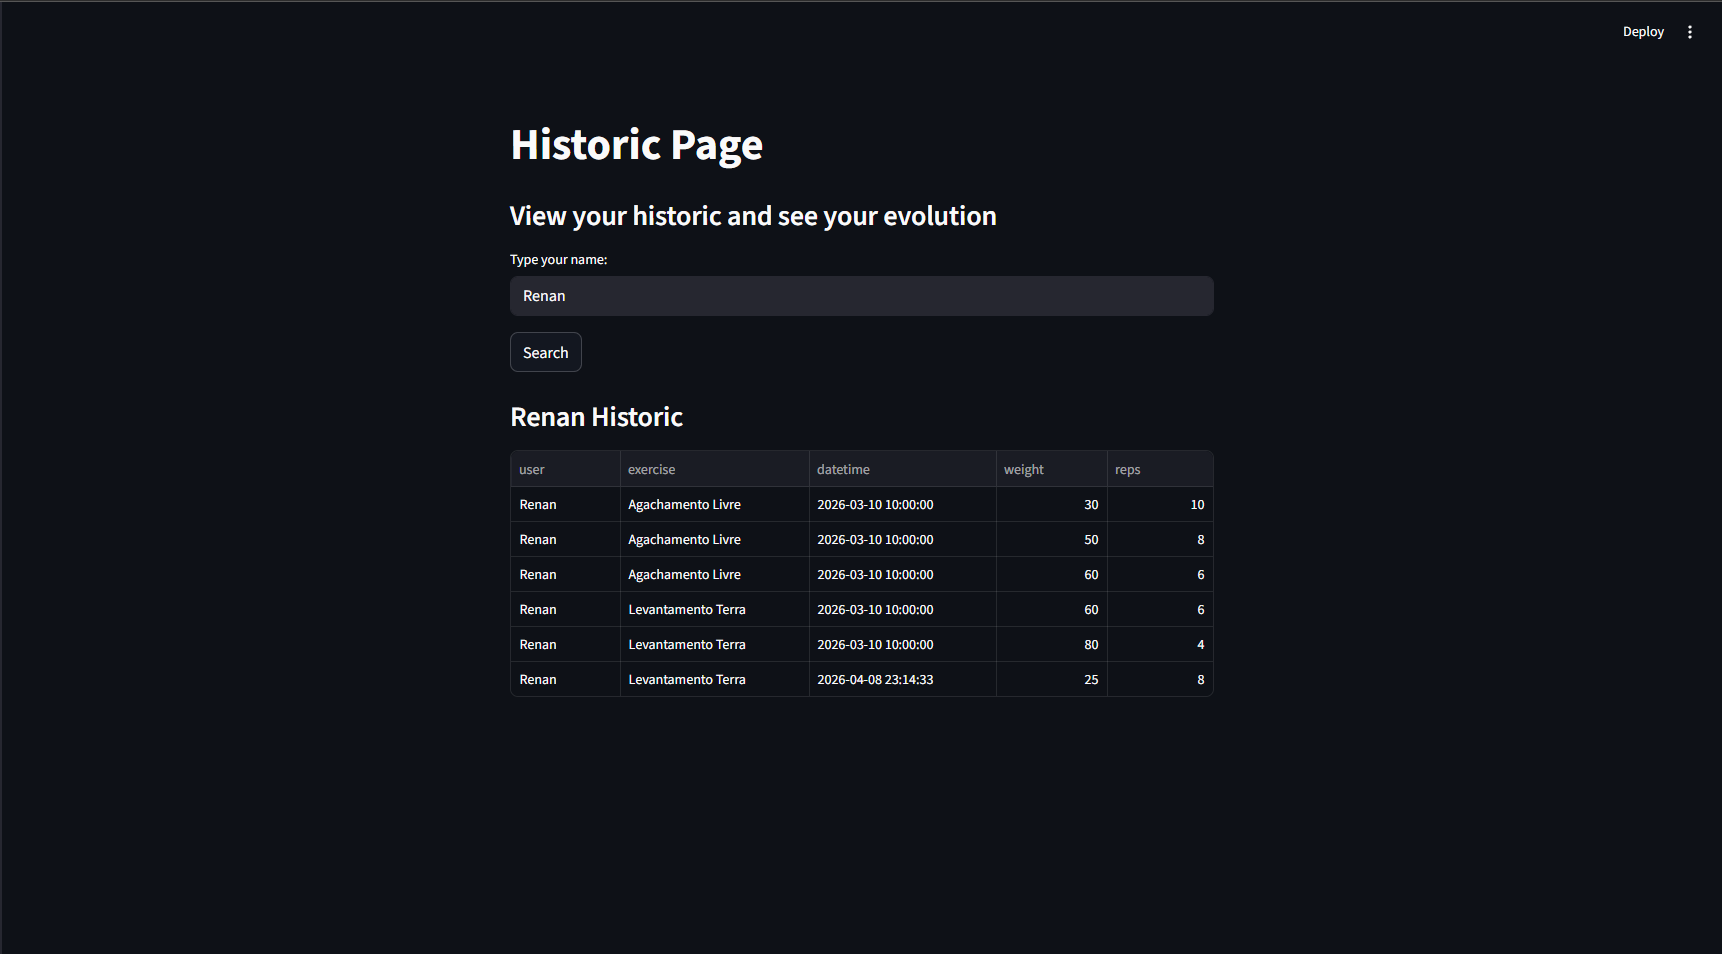
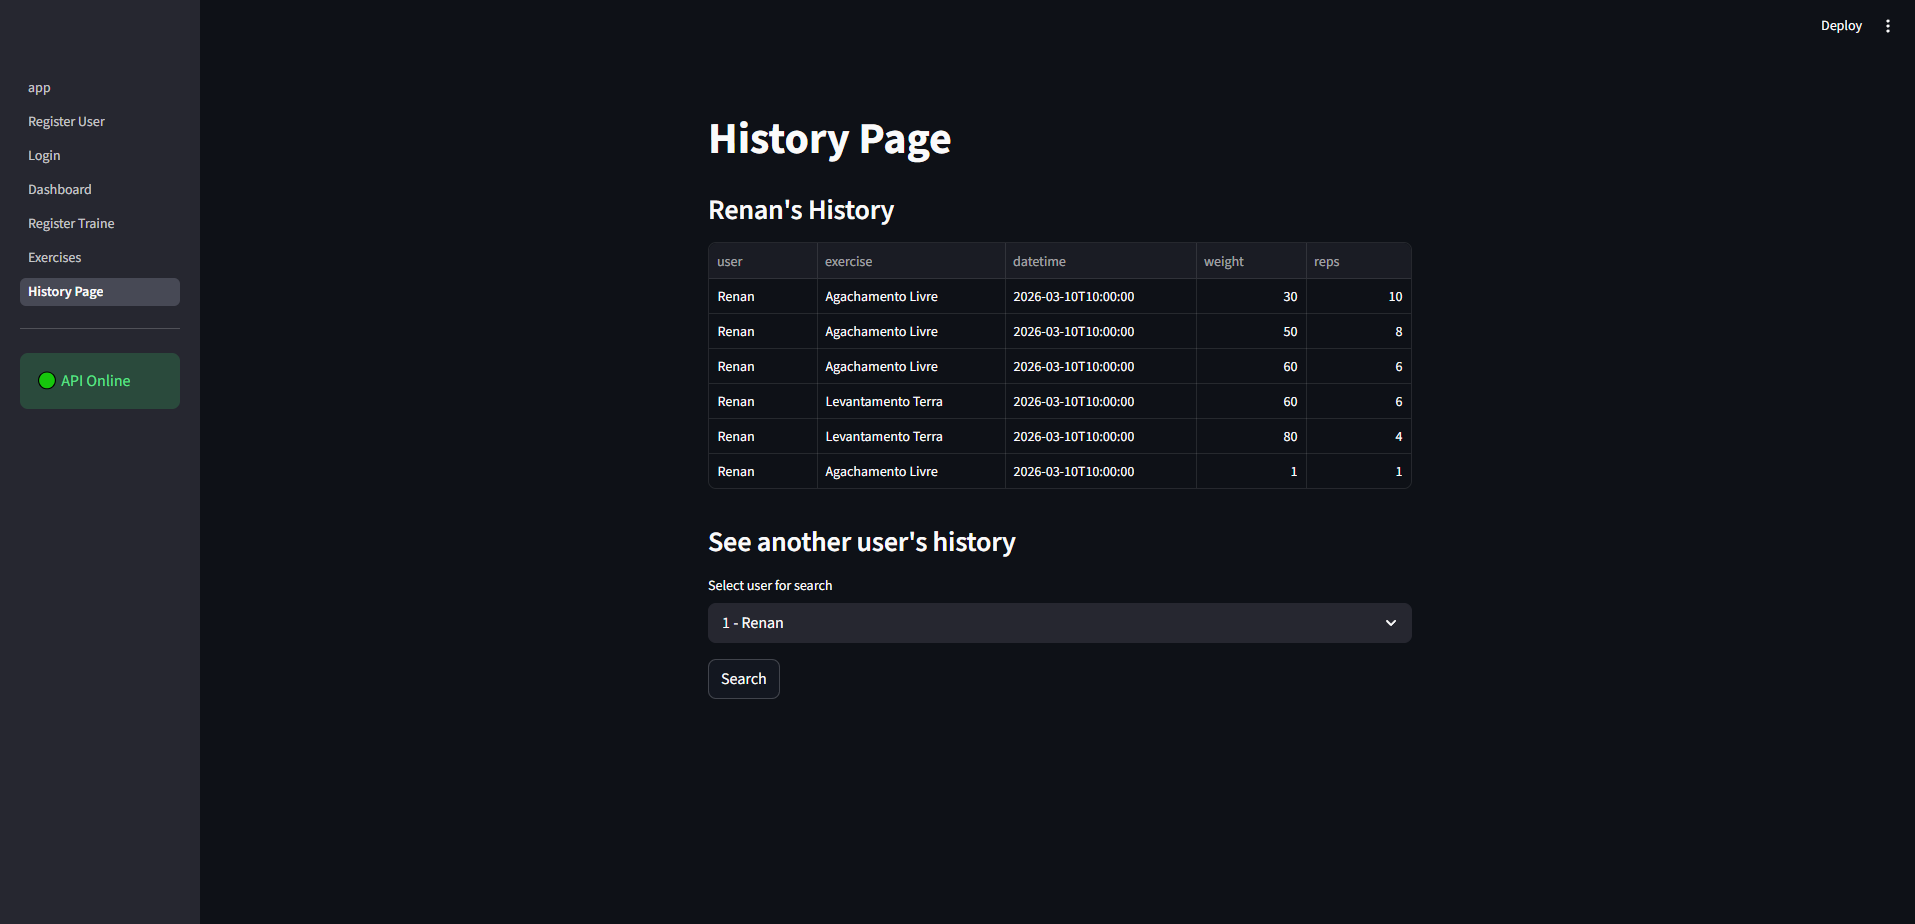
feat: ajustes no readme

diff --git a/pages/4_Register_Traine.py b/pages/4_Register_Traine.py
@@ -37,7 +37,7 @@ if 'user_token' in st.session_state:
             exercises()
         )
 
-        if st.button("Choise exercise"):
+        if st.button("Choose exercise"):
                 
                 id_exercise = select_exercise.split(' - ')[0]
                 st.session_state.id_exercise = id_exercise

diff --git a/pages/6_History_Page.py b/pages/6_History_Page.py
@@ -19,7 +19,7 @@ try:
     st.subheader(f"{user}'s History")
     st.dataframe(h)
 except requests.exceptions.HTTPError:
-    st.error(f"{user}, you don't have a history")
+    st.error(f"{user}, you don't have a history, please log to see")
 
 st.subheader("See another user's history")
 other_name = st.selectbox(

diff --git a/pages/3_Dashboard.py b/pages/3_Dashboard.py
@@ -14,7 +14,7 @@ if 'user_token' in st.session_state:
 
         user_id = st.session_state.get('user_id')
         exercises = api.get("/exercises")
-        sets = api.get(f"/history/{user}")
+        sets = historic
         workouts = api.get(f"/workout_detail_w_user/{user_id}")
 
         maximo = 0

diff --git a/api.py b/api.py
@@ -13,4 +13,3 @@ def post(endpoint, data, head):
     response.raise_for_status()
     return  response.json()
 
-##corrigir a linha 42 e o workout exercise

diff --git a/README.md b/README.md
@@ -16,12 +16,17 @@ Evolução do projeto [Gym Register](https://github.com/Renanmrqs/Gym-Register) 
 Três fases de evolução:
 
 - **Gym Register** — CLI em Python (CS50P final project)
-- **Gym API** — API REST com FastAPI + SQLite (Introduction to SQL - Harvard)
+- **Gym API** — API REST com FastAPI + PostgreSQL (Introduction to SQL - Harvard)
 - **Gym App** — Frontend em Streamlit consumindo a API ← você está aqui
 
 ---
 
 ## Páginas
+
+### Landpage
+Pagina de inicio, apresentando o app e funcionamento para novos usuarios
+
+![Landpage](img/landpage.png)
 
 ### Login
 Autenticação via JWT — token salvo no session_state e enviado no header das requisições protegidas. Páginas sensíveis bloqueiam acesso sem login.
@@ -44,7 +49,7 @@ Fluxo completo para registrar um treino: seleção do usuário, escolha do exerc
 ![Register Treino](img/register_treine.png)
 
 ### Historic
-Consulta o histórico de treinos por usuário — exercício, data, peso e reps de cada série registrada.
+Consulta o histórico de treinos por usuário — exercício, data, peso e reps de cada série registrada, além de comparar com outros usuarios do app.
 
 ![Historic](img/historic.png)
 
@@ -74,6 +79,7 @@ Cadastro e listagem de exercícios disponíveis. Requer autenticação para cada
 
 ## Como rodar
 
+```bash
 # Crie um ambiente virtual
 python -m venv venv
 # Ative o ambiente
@@ -85,6 +91,7 @@ source venv/bin/activate
 
 # Instale as dependências
 pip install -r requirements.txt
+```
 
 ---
 
@@ -92,15 +99,15 @@ pip install -r requirements.txt
 
 O app consome a Gym API hospedada no Railway:
 
-🔗 [https://web-production-7fb8d2.up.railway.app/docs](https://web-production-7fb8d2.up.railway.app/docs)
+🔗 Docs da API: [https://web-production-7fb8d2.up.railway.app/docs](https://gym-api-08pc.onrender.com)
 
-Repositório da API: [github.com/Renanmrqs/Gym-Api](https://github.com/Renanmrqs/Gym-Api)
+🔗 Repositório da API: [github.com/Renanmrqs/Gym-Api](https://github.com/Renanmrqs/Gym-Api)
 
 ---
 
 ## Próximos passos
 
-- Sistema de logout
-- Refresh token automático
-- Gráficos de evolução de carga por exercício
-- Landpage na tela inicial apresentando o app
+- [-] Sistema de logout
+- [-] Refresh token automático
+- [-] Gráficos de evolução de carga por exercício
+- [✅] Landpage na tela inicial apresentando o app
